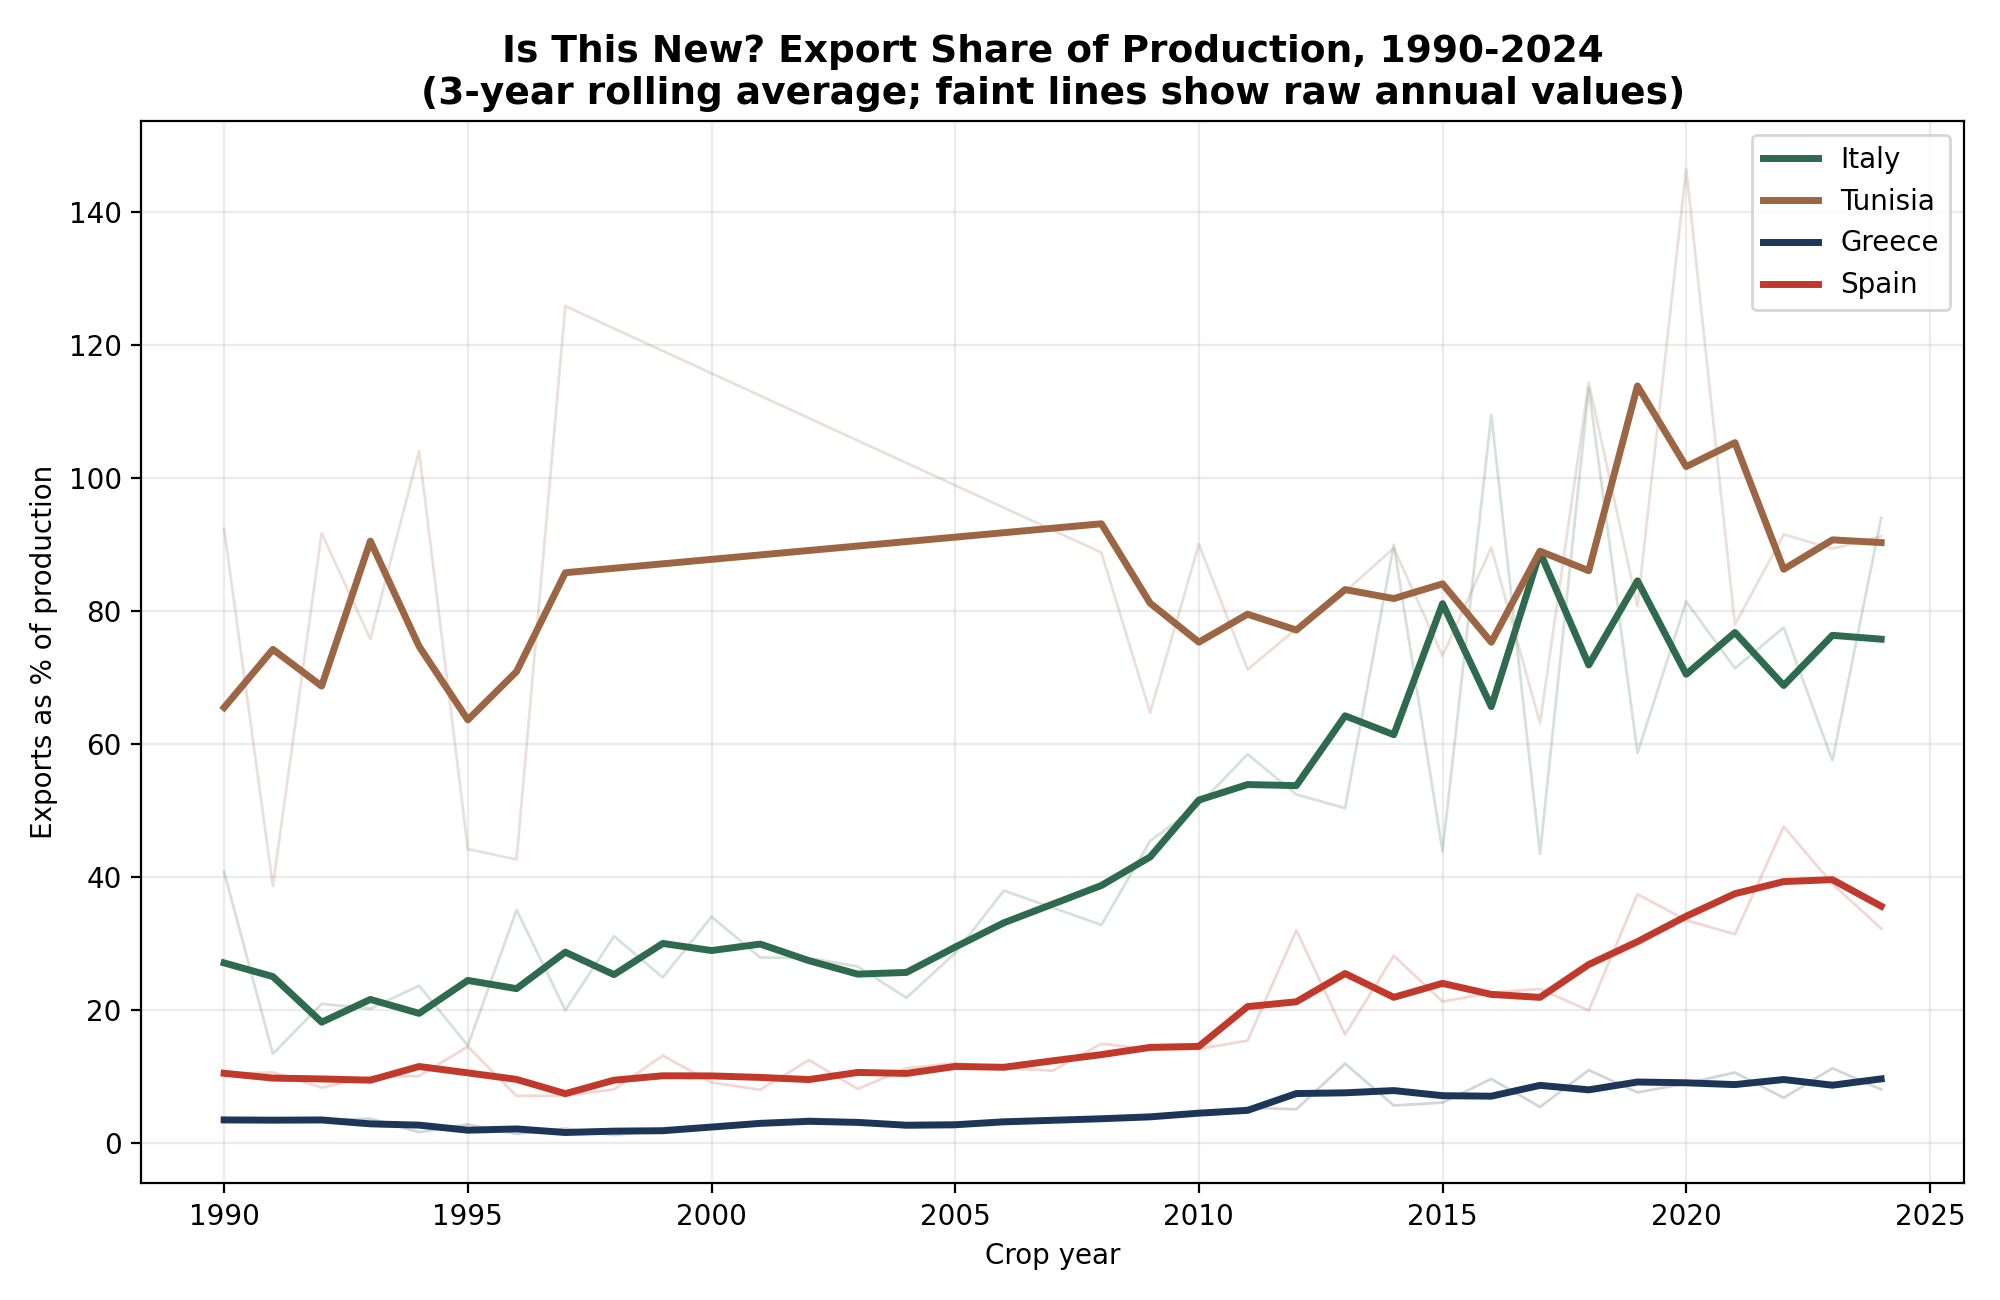
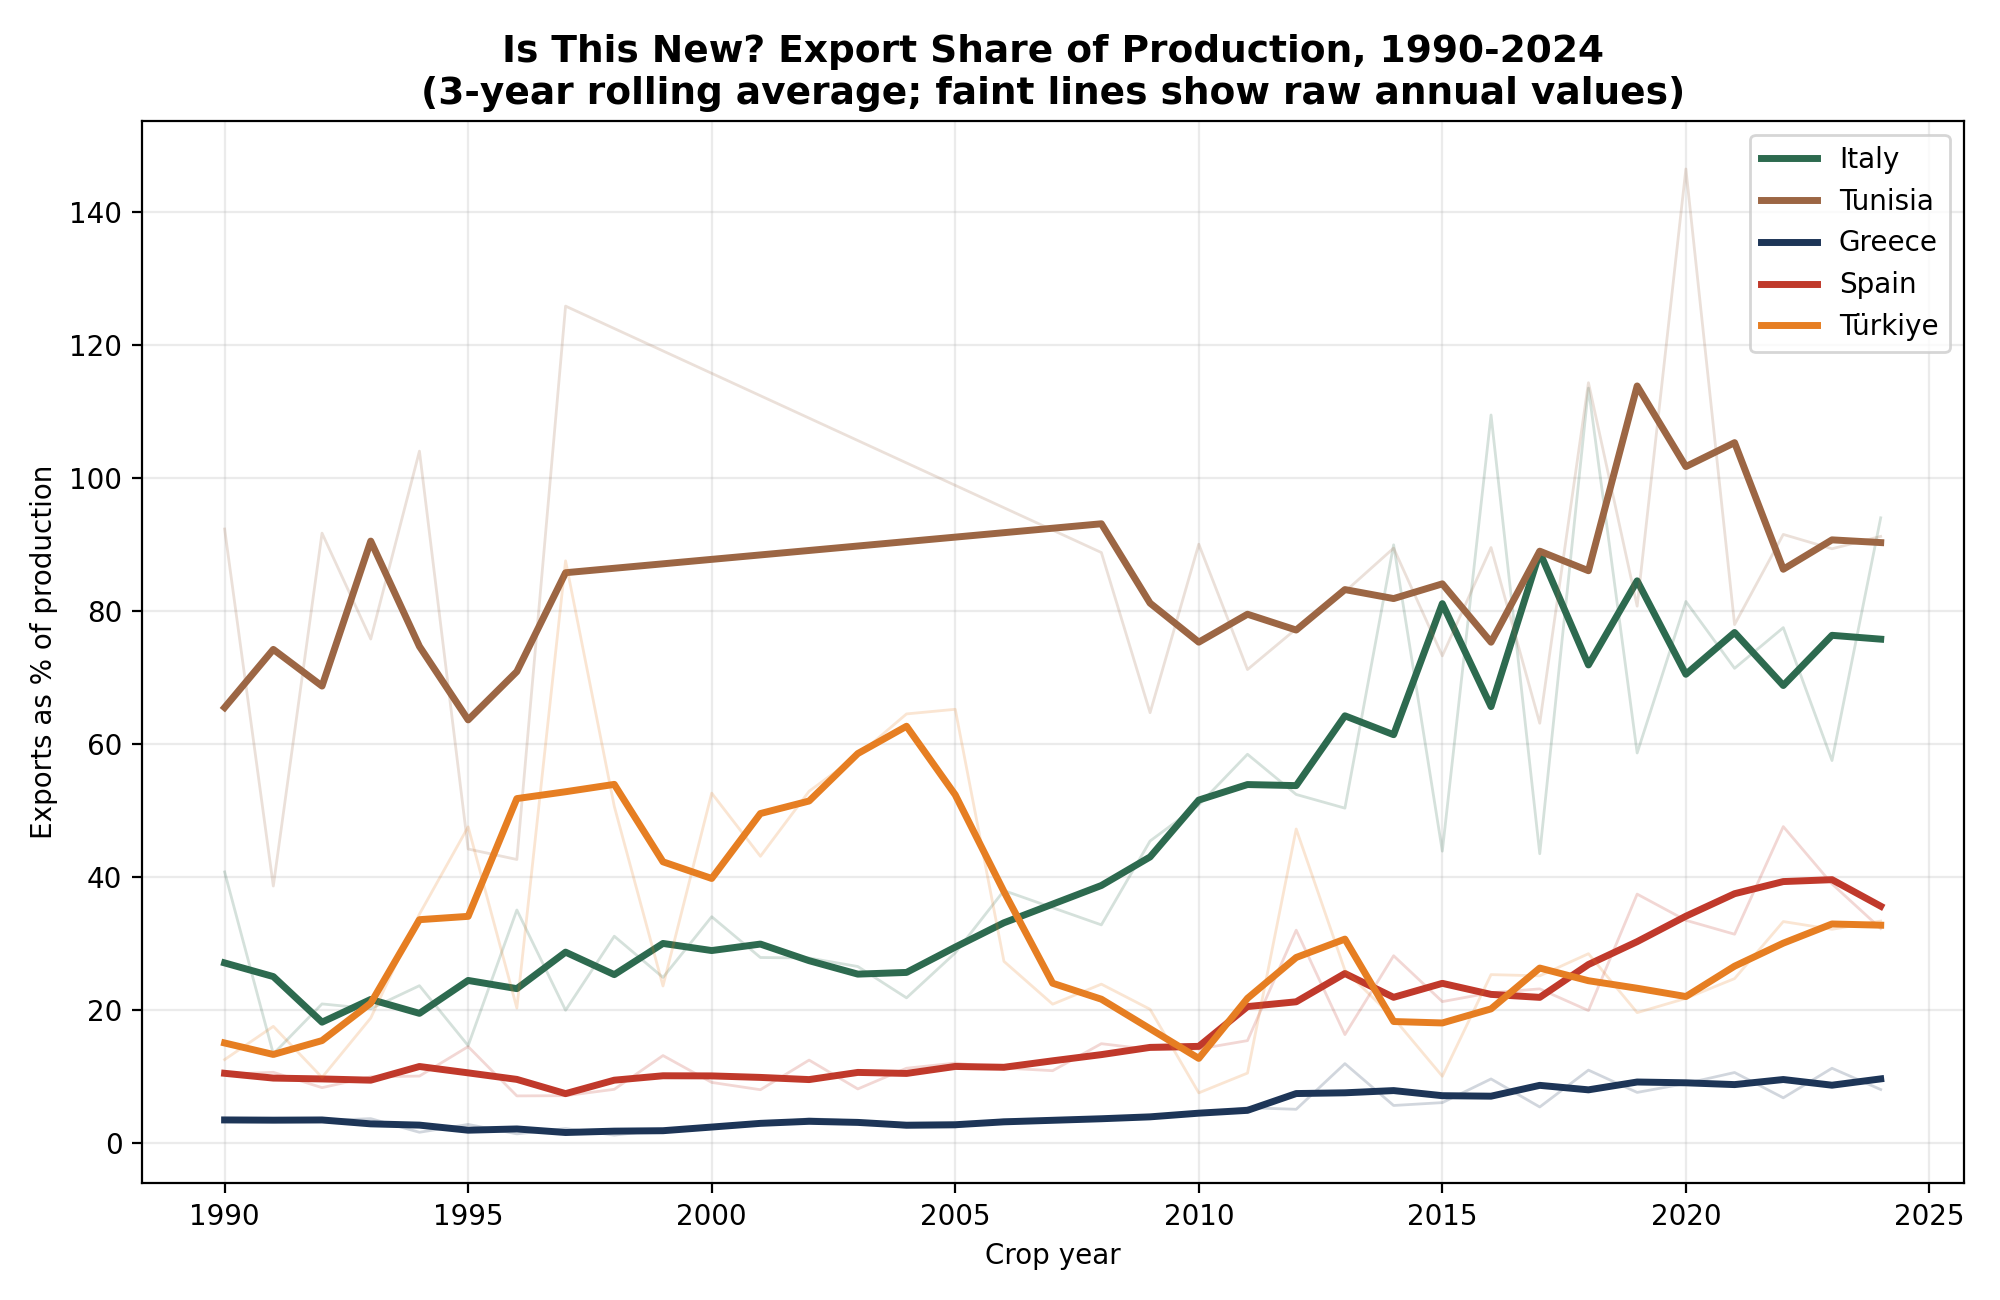
Add bubble-race GIF and put Türkiye on the export-share timeseries.

diff --git a/src/visualization/bubble_race_gif.py b/src/visualization/bubble_race_gif.py
@@ -1,0 +1,286 @@
+"""Animated GIF: olive yield vs production, big-5 countries highlighted.
+
+KEYFRAME + TWEEN approach (not annual frames). The first version of this
+GIF played all 39 years, one per frame -- even with 3-year smoothing, that
+still samples every year's noise, so the motion read as buzzy rather than
+a clean trend. Instead: pick a handful of well-spaced anchor years, hold on
+each one long enough to read it, then glide smoothly (eased interpolation)
+between anchors. This is closer to how Gapminder's own animation actually
+works -- it eases between real anchor points, it doesn't tick through raw
+annual data.
+
+Anchors: 1985, 1991, 1998, 2004, 2010, 2017, 2023 -- evenly spaced across
+the full range where all 5 highlighted countries have real data (Spain's
+FAOSTAT record starts 1980, Greece's starts 1985 and ends 2023, which is
+what bounds the whole range).
+
+Each anchor's position uses the 3-year centered rolling mean at that year
+(not the raw single-year value), so a single anomalous biennial year can't
+skew where an anchor sits -- smoothing happens at the anchor level, and
+tweening happens between already-smoothed anchors.
+
+PRODUCTION AXIS IS LINEAR, NOT LOG. Log scale is designed to compress large
+differences -- exactly the opposite of what a "look how much bigger this
+got" chart wants. Yield (x-axis) stays log, since its spread is only ~2
+orders of magnitude and it's a secondary/contextual variable here, not the
+one the chart is trying to dramatize.
+
+BUBBLE SIZE = PRODUCTION, not area harvested. Previously size encoded
+footprint (hectares planted), a different variable from the y-axis. Tying
+size to the same variable as the y-axis is deliberately redundant -- it
+reinforces the production story on two visual channels at once (a bubble
+that's both high AND big reads as "big producer" faster than reading the
+axis), which is what a presentation visual should optimize for over
+analytical precision.
+"""
+
+from pathlib import Path
+import sys
+
+import matplotlib
+matplotlib.use("Agg")
+import matplotlib.pyplot as plt
+from matplotlib import patheffects
+from PIL import Image
+import pandas as pd
+
+sys.path.insert(0, str(Path(__file__).resolve().parent))
+from region_map import assign_region
+
+KEYFRAME_YEARS = [1985, 1991, 1998, 2004, 2010, 2017, 2023]
+HOLD_FRAMES = 6          # frames spent paused ON each anchor year
+TWEEN_FRAMES = 13        # frames spent gliding BETWEEN two anchors -- more
+                         # anchors means more transitions, so slightly
+                         # fewer tween frames per transition keeps total
+                         # runtime reasonable
+HOLD_DURATION_MS = 150
+TWEEN_DURATION_MS = 55
+FINAL_HOLD_EXTRA_MS = 1600  # extra pause on the very last frame before loop
+
+HIGHLIGHT_COLORS = {
+    "Tunisia": "#9c6644",
+    "Italy": "#2d6a4f",
+    "Spain": "#c0392b",
+    "Türkiye": "#e67e22",
+    "Greece": "#1d3557",
+}
+
+LABEL_OFFSETS = {
+    "Tunisia": (0, 1.0),
+    "Spain": (-18, 1.0),
+    "Italy": (18, 1.1),
+    "Türkiye": (0, -1.6),
+    "Greece": (26, 0.9),
+}
+
+SWARM_REGION_COLORS = {
+    "Western Mediterranean": "#e8b3ab",
+    "Eastern Mediterranean": "#f3cda3",
+    "North Africa": "#a9d4c8",
+    "Middle East": "#cdb3dd",
+    "Rest of World": "#c9c9c9",
+}
+
+
+def find_project_root():
+    current = Path(__file__).resolve()
+    for parent in current.parents:
+        if (parent / "README.md").exists() and (parent / "data").exists():
+            return parent
+    raise FileNotFoundError("Project root could not be found.")
+
+
+def ease_in_out(t):
+    """Smoothstep easing -- starts slow, speeds up, ends slow. Reads as
+    natural glide rather than a linear slide."""
+    return t * t * (3 - 2 * t)
+
+
+def load_smoothed(root):
+    df = pd.read_csv(root / "data" / "processed" / "faostat_all_countries.csv")
+    df = df.dropna(subset=["yield_kg_ha", "production_tonnes", "area_harvested_ha"])
+    df = df[(df["yield_kg_ha"] > 0) & (df["production_tonnes"] > 0)]
+    df["region"] = df["country"].apply(assign_region)
+    df["year"] = df["year"].astype(int)
+    df = df.sort_values(["country", "year"])
+    for col in ["yield_kg_ha", "production_tonnes", "area_harvested_ha"]:
+        df[col] = (
+            df.groupby("country")[col]
+            .transform(lambda s: s.rolling(window=3, center=True, min_periods=1).mean())
+        )
+    return df
+
+
+def draw_frame(ax, swarm_rows, big5_positions, trail_history, size_ref,
+                x_lo, x_hi, y_lo, y_hi, display_year):
+    """swarm_rows: DataFrame of non-highlighted countries for THIS instant
+    (only drawn at exact anchors -- swarm doesn't tween, only the big 5 do,
+    since interpolating ~55 background countries adds no story value and
+    costs a lot of complexity).
+    big5_positions: dict {country: (x, y, size_value)} for this instant,
+    possibly interpolated. size_value is production_tonnes -- same variable
+    as the y-axis, deliberately redundant (see module docstring).
+    trail_history: dict {country: [(x,y), ...]} of anchor points strictly
+    before this instant, PLUS the current point appended -- draws as a
+    connect-the-anchors path with a moving head during tweens.
+    """
+    for region, color in SWARM_REGION_COLORS.items():
+        rsub = swarm_rows[swarm_rows.region == region]
+        if rsub.empty:
+            continue
+        sizes = 15 + 2000 * (rsub.production_tonnes / size_ref)
+        ax.scatter(rsub.yield_kg_ha, rsub.production_tonnes, s=sizes, c=color,
+                   alpha=0.7, edgecolors="white", linewidths=0.4, zorder=2)
+
+    for country, color in HIGHLIGHT_COLORS.items():
+        path = trail_history.get(country, [])
+        if len(path) > 1:
+            xs, ys = zip(*path)
+            ax.plot(xs, ys, color=color, linewidth=1.6, alpha=0.5,
+                    linestyle=(0, (2, 1.5)), zorder=3)
+
+    for country, color in HIGHLIGHT_COLORS.items():
+        if country not in big5_positions:
+            continue
+        x, y, size_value = big5_positions[country]
+        size = 15 + 2000 * (size_value / size_ref)
+        ax.scatter([x], [y], s=size, c=color, alpha=0.92, edgecolors="black",
+                   linewidths=1.0, zorder=5)
+        dx, dy_sign = LABEL_OFFSETS[country]
+        base_dist = (size ** 0.5) / 2 + 7
+        dy = base_dist * dy_sign
+        va = "bottom" if dy_sign > 0 else "top"
+        ax.annotate(country, (x, y), fontsize=10.5, fontweight="bold", color=color,
+                    xytext=(dx, dy), textcoords="offset points",
+                    ha="center", va=va, zorder=6,
+                    path_effects=[patheffects.withStroke(linewidth=3, foreground="white")])
+
+    ax.set_xscale("log")
+    ax.set_yscale("linear")
+    ax.set_xlim(x_lo, x_hi)
+    ax.set_ylim(y_lo, y_hi)
+    ax.set_xlabel("Yield (kg per hectare, log scale)", fontsize=11)
+    ax.set_ylabel("Production (tonnes)", fontsize=11)
+    ax.yaxis.set_major_formatter(
+        __import__("matplotlib.ticker", fromlist=["FuncFormatter"]).FuncFormatter(
+            lambda val, pos: f"{val/1e6:.1f}M" if val >= 1e6 else (f"{val/1e3:.0f}k" if val >= 1e3 else f"{val:.0f}")
+        )
+    )
+    ax.grid(True, which="both", alpha=0.18)
+    ax.set_title("Olive Production, 1985-2023: Who Grows More, Who Grows Better",
+                  fontsize=15, fontweight="bold", loc="left")
+    ax.text(0.98, 0.05, display_year, transform=ax.transAxes, fontsize=34, fontweight="bold",
+            color="#333333", ha="right", va="bottom", alpha=0.85,
+            path_effects=[patheffects.withStroke(linewidth=4, foreground="white")])
+
+
+def build():
+    root = find_project_root()
+    df = load_smoothed(root)
+
+    span = df[df.year.isin(KEYFRAME_YEARS)]
+    x_lo, x_hi = span["yield_kg_ha"].min() * 0.7, span["yield_kg_ha"].max() * 1.4
+    prod_max = span["production_tonnes"].max()
+    y_lo, y_hi = -prod_max * 0.05, prod_max * 1.3   # linear: small negative
+                                                      # floor so bubbles near
+                                                      # zero don't get clipped
+                                                      # at the bottom edge
+    size_ref = prod_max
+
+    # Pre-fetch each keyframe's big-5 positions and full swarm snapshot
+    keyframe_data = {}
+    for yr in KEYFRAME_YEARS:
+        sub = df[df.year == yr]
+        positions = {}
+        for country in HIGHLIGHT_COLORS:
+            row = sub[sub.country == country]
+            if not row.empty:
+                positions[country] = (
+                    row.yield_kg_ha.values[0],
+                    row.production_tonnes.values[0],
+                    row.production_tonnes.values[0],  # size driven by production too (see docstring)
+                )
+        keyframe_data[yr] = {
+            "positions": positions,
+            "swarm": sub[~sub.country.isin(HIGHLIGHT_COLORS)],
+        }
+
+    frame_dir = root / "outputs" / "figures" / "faostat" / "_gif_frames"
+    frame_dir.mkdir(parents=True, exist_ok=True)
+    for old in frame_dir.glob("*.png"):
+        old.unlink()
+
+    frame_paths = []
+    durations = []
+    trail_history = {c: [] for c in HIGHLIGHT_COLORS}
+
+    def save_frame(idx, swarm_rows, positions, trail_hist_snapshot, display_year, duration_ms):
+        fig, ax = plt.subplots(figsize=(10, 7.2), dpi=130)
+        draw_frame(ax, swarm_rows, positions, trail_hist_snapshot, size_ref,
+                   x_lo, x_hi, y_lo, y_hi, display_year)
+        fig.tight_layout()
+        fp = frame_dir / f"frame_{idx:04d}.png"
+        fig.savefig(fp, dpi=130)
+        plt.close(fig)
+        frame_paths.append(fp)
+        durations.append(duration_ms)
+
+    idx = 0
+    for i, yr in enumerate(KEYFRAME_YEARS):
+        kf = keyframe_data[yr]
+        # append this keyframe's own points to each country's trail history
+        for country, (x, y, _) in kf["positions"].items():
+            trail_history[country].append((x, y))
+
+        # --- hold on this anchor ---
+        for h in range(HOLD_FRAMES):
+            save_frame(idx, kf["swarm"], kf["positions"], trail_history, str(yr), HOLD_DURATION_MS)
+            idx += 1
+
+        # --- tween to the NEXT anchor, if there is one ---
+        if i < len(KEYFRAME_YEARS) - 1:
+            next_yr = KEYFRAME_YEARS[i + 1]
+            next_kf = keyframe_data[next_yr]
+            for step in range(1, TWEEN_FRAMES + 1):
+                t = ease_in_out(step / (TWEEN_FRAMES + 1))
+                tween_positions = {}
+                for country in HIGHLIGHT_COLORS:
+                    if country in kf["positions"] and country in next_kf["positions"]:
+                        x0, y0, a0 = kf["positions"][country]
+                        x1, y1, a1 = next_kf["positions"][country]
+                        tween_positions[country] = (
+                            x0 + (x1 - x0) * t,
+                            y0 + (y1 - y0) * t,
+                            a0 + (a1 - a0) * t,
+                        )
+                # trail during tween: history so far + the moving current point
+                tween_trail = {c: list(v) for c, v in trail_history.items()}
+                for country, (x, y, _) in tween_positions.items():
+                    tween_trail[country].append((x, y))
+
+                display_year = str(round(yr + (next_yr - yr) * t))
+                # swarm fades: show the DEPARTING keyframe's swarm for the
+                # first half of the tween, arriving keyframe's for the
+                # second half, rather than interpolating ~55 countries
+                swarm_rows = kf["swarm"] if t < 0.5 else next_kf["swarm"]
+                save_frame(idx, swarm_rows, tween_positions, tween_trail,
+                           display_year, TWEEN_DURATION_MS)
+                idx += 1
+
+    # extra pause on the very last frame before the GIF loops
+    durations[-1] += FINAL_HOLD_EXTRA_MS
+
+    images = [Image.open(fp).convert("P", palette=Image.ADAPTIVE) for fp in frame_paths]
+    out_path = root / "outputs" / "figures" / "faostat" / "bubble_race.gif"
+    images[0].save(
+        out_path, save_all=True, append_images=images[1:],
+        duration=durations, loop=0, optimize=True,
+    )
+
+    print(f"Wrote {out_path} ({len(images)} frames)")
+    print(f"File size: {out_path.stat().st_size / 1024:.0f} KB")
+    print(f"Total playtime: {sum(durations) / 1000:.1f}s per loop")
+
+
+if __name__ == "__main__":
+    build()

diff --git a/src/visualization/italy_credit_gap_charts.py b/src/visualization/italy_credit_gap_charts.py
@@ -60,8 +60,11 @@ def load_agg(root):
 
 
 def load_export_share_ratio(root):
-    """Export share as the mean of each YEAR's own ratio, not the ratio of
-    averaged totals -- matches export_share_timeseries.py and hero_pictogram.py."""
+    """Export share computed as the mean of each YEAR's own ratio, not the
+    ratio of averaged totals. This matches the methodology used in
+    export_share_timeseries.py and is more robust to which individual years
+    happen to carry more volume (relevant given alternate-bearing swings) --
+    it's the number that should be quoted everywhere in the deck."""
     ioc = pd.read_csv(root / "data" / "processed" / "ioc_all_countries.csv")
     recent = ioc[ioc.crop_year_start >= 2015].copy()
     recent = recent[~recent.country.isin(["World", "EU", "Other non-producing countries", "Other producing countries"])]
@@ -117,12 +120,10 @@ def chart_scatter(agg, out_dir):
 
 def chart_export_share(agg, out_dir, ratio_series):
     """Export share of production -- the cleanest single proof of the thesis.
-    Italy and Tunisia export the overwhelming majority of what they produce;
-    Greece exports almost none of a comparable harvest."""
-    sub = agg.copy()
-    sub["export_share"] = ratio_series.reindex(sub.index)
+    Uses the mean-of-yearly-ratios (ratio_series), consistent with
+    export_share_timeseries.py, not the ratio of averaged totals."""
+    sub = agg[["production"]].join(ratio_series.rename("export_share"), how="inner")
     sub = sub[sub.production > 100000]  # keep it to major producers only
-    sub = sub.dropna(subset=["export_share"])
     sub = sub.sort_values("export_share", ascending=True)
 
     colors = [HIGHLIGHT_COLORS.get(c, NEUTRAL) for c in sub.index]
@@ -139,14 +140,6 @@ def chart_export_share(agg, out_dir, ratio_series):
     fig.tight_layout()
     fig.savefig(out_dir / "export_share_bar.png", dpi=200)
     plt.close(fig)
-    print(
-        "export_share_bar: "
-        + ", ".join(
-            f"{country} {sub.loc[country, 'export_share']:.1f}%"
-            for country in ("Tunisia", "Italy", "Greece")
-            if country in sub.index
-        )
-    )
 
 
 def chart_rank_bump(agg, out_dir):
@@ -154,7 +147,6 @@ def chart_rank_bump(agg, out_dir):
     sub["prod_rank"] = sub["production"].rank(ascending=False, method="min")
     sub["exp_rank"] = sub["exports"].rank(ascending=False, method="min")
 
-    # keep countries in the top 12 by either rank, for legibility
     keep = sub[(sub.prod_rank <= 12) | (sub.exp_rank <= 12)].copy()
 
     fig, ax = plt.subplots(figsize=(10, 9))

diff --git a/src/visualization/export_share_timeseries.py b/src/visualization/export_share_timeseries.py
@@ -1,5 +1,4 @@
-"""Is the Italy/Tunisia/Greece export-share gap persistent or recent?
-Line chart, export share of production over time, 1990-2024.
+"""Export share of production over time, 1990-2024.
 """
 
 from pathlib import Path
@@ -14,6 +13,7 @@ COLORS = {
     "Tunisia": "#9c6644",
     "Greece": "#1d3557",
     "Spain": "#c0392b",
+    "Türkiye": "#e67e22",
 }
 
 
